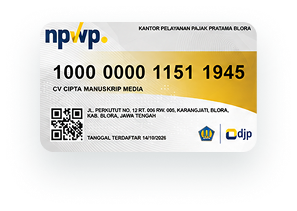
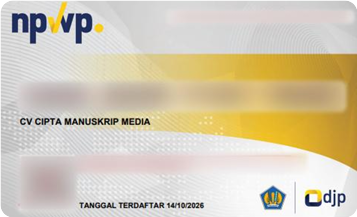
feat(konten): revisi publish-buku & tentang-kami sesuai masukan klien (#8)
- Hapus fasilitas "Pengurusan ISBN" dari ketiga paket buku
- Ganti foto hero /publish-buku dengan foto baru dari klien
- Kartu pilar 02 "ISBN Resmi" diganti "Tim Penerbitan Profesional"
  (visual tim editor/proofreader/desainer, menggantikan logo Perpusnas
  & barcode ISBN)
- Heading pilar direvisi: "Mengapa Memilih CV Cipta Manuskrip Media?"
- Ganti kartu NPWP di /tentang-kami (terdaftar 14/10/2026), kini dengan
  sudut membulat konsisten dengan foto Kemenkumham

diff --git a/content/site.ts b/content/site.ts
@@ -122,7 +122,6 @@ export const PAKET_BUKU: ReadonlyArray<{
       "Penyuntingan naskah",
       "Layout isi buku",
       "Desain cover buku",
-      "Pengurusan ISBN",
       "Royalti penulis 30%",
     ],
   },
@@ -134,7 +133,6 @@ export const PAKET_BUKU: ReadonlyArray<{
       "Penyuntingan naskah",
       "Layout isi buku",
       "Desain cover buku",
-      "Pengurusan ISBN",
       "Royalti penulis 30%",
     ],
   },
@@ -145,7 +143,6 @@ export const PAKET_BUKU: ReadonlyArray<{
       "Penyuntingan naskah",
       "Layout isi buku",
       "Desain cover buku",
-      "Pengurusan ISBN",
       "Royalti penulis 30%",
     ],
   },
@@ -278,15 +275,16 @@ export const SPESIFIKASI_BUKU = {
 } as const;
 
 /** Jenis visual pendukung pada kartu pilar kepercayaan. */
-export type JenisVisualPilar = "legalitas" | "isbn" | "naskah" | "distribusi";
+export type JenisVisualPilar = "legalitas" | "tim" | "naskah" | "distribusi";
 
 /**
  * Empat pilar kepercayaan pada /publish-buku, setelah section asistensi.
  * Teks judul & deskripsi mengikuti brief kata per kata.
  *
- * `jenisVisual` menentukan ilustrasi kartu. Dua entri pertama masih
- * PLACEHOLDER: logo resmi Kemenkumham, Perpusnas RI, dan barcode ISBN
- * belum dikirim klien, jadi jangan dibuat-buat.
+ * `jenisVisual` menentukan ilustrasi kartu. Kartu nomor 02 dahulu berjudul
+ * "ISBN Resmi" (logo Perpusnas RI & barcode ISBN); atas permintaan klien
+ * diganti menjadi "Tim Penerbitan Profesional" dengan visual tim editorial,
+ * sejalan dengan dihapusnya fasilitas "Pengurusan ISBN" dari semua paket.
  */
 export const PILAR_KEPERCAYAAN: ReadonlyArray<{
   id: string;
@@ -304,12 +302,12 @@ export const PILAR_KEPERCAYAAN: ReadonlyArray<{
     jenisVisual: "legalitas",
   },
   {
-    id: "isbn",
+    id: "tim",
     nomor: "02",
-    judul: "ISBN Resmi",
+    judul: "Tim Penerbitan Profesional",
     deskripsi:
-      "Setiap buku memiliki nomor ISBN dari Perpustakaan Nasional yang bisa divalidasi di website resmi Perpusnas.",
-    jenisVisual: "isbn",
+      "Didukung oleh tim editor, proofreader, dan desainer tata letak berpengalaman yang memastikan setiap naskah diproses secara profesional sesuai standar penerbitan.",
+    jenisVisual: "tim",
   },
   {
     id: "naskah",

diff --git a/components/TrustPillars.test.tsx b/components/TrustPillars.test.tsx
@@ -9,7 +9,7 @@ describe("TrustPillars (Section 2.2)", () => {
     expect(html).toContain('aria-labelledby="trust-title"');
     expect(html).toContain('id="trust-title"');
     const teks = html.replace(/<[^>]*>/g, "");
-    expect(teks).toContain("Mengapa Memilih Penerbit Cipta Manuskrip Media?");
+    expect(teks).toContain("Mengapa Memilih CV Cipta Manuskrip Media?");
   });
 
   it("menampilkan tepat empat kartu pilar", () => {
@@ -21,7 +21,7 @@ describe("TrustPillars (Section 2.2)", () => {
     const teks = html.replace(/<[^>]*>/g, "");
     for (const judul of [
       "Legalitas Resmi",
-      "ISBN Resmi",
+      "Tim Penerbitan Profesional",
       "Tidak Harus Ada Naskah di Awal",
       "Distribusi Beragam",
     ]) {
@@ -31,7 +31,7 @@ describe("TrustPillars (Section 2.2)", () => {
       "CV Cipta Manuskrip Media telah resmi berbadan hukum dengan kegiatan usaha penerbitan buku dan jurnal ilmiah.",
     );
     expect(teks).toContain(
-      "Setiap buku memiliki nomor ISBN dari Perpustakaan Nasional yang bisa divalidasi di website resmi Perpusnas.",
+      "Didukung oleh tim editor, proofreader, dan desainer tata letak berpengalaman yang memastikan setiap naskah diproses secara profesional sesuai standar penerbitan.",
     );
     expect(teks).toContain(
       "Belum ada naskah buku? Tak masalah. Tim kami siap bantu asistensi penulisan buku kamu. Fiksi ataupun Nonfiksi.",
@@ -43,11 +43,11 @@ describe("TrustPillars (Section 2.2)", () => {
 
   it("memakai keempat logo dan ilustrasi visual pilar sesuai Figma", () => {
     expect(html).toContain("/aset/trust-legalitas.png");
-    expect(html).toContain("/aset/trust-perpusnas.png");
+    expect(html).toContain("/aset/trust-tim.png");
     expect(html).toContain("/aset/trust-naskah.png");
     expect(html).toContain("/aset/trust-distribusi.png");
-    expect(html).toContain("Logo Perpusnas RI");
-    expect(html).toContain("Barcode ISBN");
+    expect(html).toContain("Tim editor, proofreader");
+    expect(html).toContain("desainer");
     expect(html).not.toContain("home-catalog");
   });
 });

diff --git a/components/TrustPillars.tsx b/components/TrustPillars.tsx
@@ -2,7 +2,7 @@ import { BadgeCheck } from "lucide-react";
 import { PILAR_KEPERCAYAAN, type JenisVisualPilar } from "@/content/site";
 
 /**
- * "Mengapa Memilih Penerbit Cipta Manuskrip Media?"
+ * "Mengapa Memilih CV Cipta Manuskrip Media?"
  * Komponen empat pilar kepercayaan di /publish-buku, tepat setelah asistensi.
  */
 function VisualPilar({ jenis }: { jenis: JenisVisualPilar }) {
@@ -25,21 +25,19 @@ function VisualPilar({ jenis }: { jenis: JenisVisualPilar }) {
     );
   }
 
-  if (jenis === "isbn") {
+  if (jenis === "tim") {
     return (
-      <div className="trust-visual trust-visual--isbn">
-        <span className="trust-logo-bulat" aria-hidden="true">
-          <img
-            src="/aset/trust-perpusnas.png"
-            alt=""
-            width={78}
-            height={73}
-            className="trust-logo-img"
-          />
-        </span>
-        <span className="trust-barcode" aria-hidden="true" />
+      <div className="trust-visual trust-visual--tim">
+        <img
+          src="/aset/trust-tim.png"
+          alt=""
+          aria-hidden="true"
+          width={140}
+          height={96}
+          className="trust-ilustrasi-img"
+        />
         <span className="trust-visual-caption">
-          Logo Perpusnas RI &amp; Barcode ISBN
+          Tim editor, proofreader &amp; desainer
         </span>
       </div>
     );
@@ -90,7 +88,7 @@ export function TrustPillars() {
         <div>
           <p className="section-kicker">Mengapa memilih kami</p>
           <h2 id="trust-title" className="section-title">
-            Mengapa Memilih Penerbit <em>Cipta Manuskrip Media?</em>
+            Mengapa Memilih <em>CV Cipta Manuskrip Media?</em>
           </h2>
         </div>
         <p className="section-intro">

diff --git a/app/home-sections.css b/app/home-sections.css
@@ -266,7 +266,7 @@
   color: #09677d;
 }
 
-/* --- Area visual: dua pertama placeholder logo resmi, dua lainnya ikon --- */
+/* --- Area visual kartu pilar: logo/legalitas, tim editorial, dan ikon --- */
 
 .trust-visual {
   position: relative;
@@ -285,8 +285,8 @@
   background: radial-gradient(ellipse at 50% 40%, rgba(9, 103, 125, 0.1), transparent 70%);
 }
 
-.trust-visual--isbn {
-  background: radial-gradient(ellipse at 50% 40%, rgba(212, 163, 70, 0.13), transparent 70%);
+.trust-visual--tim {
+  background: radial-gradient(ellipse at 50% 40%, rgba(14, 124, 189, 0.12), transparent 70%);
 }
 
 .trust-visual--naskah {
@@ -332,20 +332,6 @@
   background: rgba(255, 255, 255, 0.9);
   box-shadow: 0 6px 16px rgba(16, 42, 49, 0.06);
   color: #09677d;
-}
-
-.trust-barcode {
-  width: 94px;
-  height: 42px;
-  border: 1px solid rgba(16, 42, 49, 0.12);
-  border-radius: 4px;
-  background-color: #fff;
-  background-image: repeating-linear-gradient(
-    90deg,
-    #102a31 0 2px, transparent 2px 4px,
-    #102a31 4px 5px, transparent 5px 9px
-  );
-  opacity: 0.55;
 }
 
 .trust-penghubung {

diff --git a/content/site.test.ts b/content/site.test.ts
@@ -47,15 +47,18 @@ describe("content/site", () => {
   it("empat pilar kepercayaan Section 2.2 memakai teks persis brief", () => {
     expect(PILAR_KEPERCAYAAN.map((p) => p.judul)).toEqual([
       "Legalitas Resmi",
-      "ISBN Resmi",
+      "Tim Penerbitan Profesional",
       "Tidak Harus Ada Naskah di Awal",
       "Distribusi Beragam",
     ]);
     expect(PILAR_KEPERCAYAAN.map((p) => p.jenisVisual)).toEqual([
-      "legalitas", "isbn", "naskah", "distribusi",
+      "legalitas", "tim", "naskah", "distribusi",
     ]);
     expect(PILAR_KEPERCAYAAN[0].deskripsi).toBe(
       "CV Cipta Manuskrip Media telah resmi berbadan hukum dengan kegiatan usaha penerbitan buku dan jurnal ilmiah.",
+    );
+    expect(PILAR_KEPERCAYAAN[1].deskripsi).toBe(
+      "Didukung oleh tim editor, proofreader, dan desainer tata letak berpengalaman yang memastikan setiap naskah diproses secara profesional sesuai standar penerbitan.",
     );
     expect(PILAR_KEPERCAYAAN[3].deskripsi).toBe(
       "Buku kamu tak hanya dijual secara cetak, tapi bisa disewa secara online juga.",

diff --git a/app/(publik)/publish-buku/page.tsx b/app/(publik)/publish-buku/page.tsx
@@ -62,9 +62,9 @@ export default async function Page() {
           <img
             className="publish-hero-foto"
             src="/aset/buku-hero.jpg"
-            width={687}
-            height={492}
-            alt="Penulis muda Indonesia tersenyum menunjukkan ponsel bertanda PUBLISHED, disertai ilustrasi lambang Perpustakaan Nasional dan barcode ISBN."
+            width={1184}
+            height={880}
+            alt="Penulis muda Indonesia tersenyum menunjukkan ponsel bertanda PUBLISHED."
           />
         </div>
       </section>

diff --git a/app/(publik)/publish-buku/visual.test.tsx b/app/(publik)/publish-buku/visual.test.tsx
@@ -47,8 +47,8 @@ describe("visual §3 publish-buku", () => {
     expect(posisiKatalog).toBeGreaterThan(posisiPilar);
     expect((html.match(/class="trust-card"/g) ?? [])).toHaveLength(4);
     expect(html).toContain('id="trust-title"');
-    expect(html).toContain("Mengapa Memilih Penerbit ");
-    expect(html).toContain("Cipta Manuskrip Media?");
+    expect(html).toContain("Mengapa Memilih ");
+    expect(html).toContain("CV Cipta Manuskrip Media?");
   });
 
   it("foto diberi alt yang menjelaskan isinya (bukan alt kosong)", async () => {

diff --git a/app/(publik)/tentang-kami/page.test.tsx b/app/(publik)/tentang-kami/page.test.tsx
@@ -108,7 +108,7 @@ describe("tentang-kami", () => {
     expect(html).toContain('width="443"');
     expect(html).toContain('height="552"');
     expect(html).toContain('width="520"');
-    expect(html).toContain('height="312"');
+    expect(html).toContain('height="316"');
     expect(html).toContain("Surat keterangan terdaftar pendirian CV Cipta Manuskrip Media");
     expect(html).toContain("Kartu NPWP badan usaha CV Cipta Manuskrip Media.");
     expect(html).not.toContain("PLACEHOLDER");

diff --git a/app/(publik)/page.test.tsx b/app/(publik)/page.test.tsx
@@ -174,7 +174,7 @@ describe("beranda", () => {
     expect(teks).not.toContain("Empat langkah");
     expect(teks).not.toContain("dua jalan berkarya");
     expect(teks).not.toContain("Bukan janji besar");
-    expect(teks).not.toContain("Mengapa Memilih Penerbit");
+    expect(teks).not.toContain("Mengapa Memilih CV Cipta Manuskrip Media");
     expect(html).not.toContain("home-flow");
     expect(html).not.toContain("home-ground");
     expect(html).not.toContain("services-section");

diff --git a/components/AboutLegalitas.tsx b/components/AboutLegalitas.tsx
@@ -56,7 +56,7 @@ export function AboutLegalitas() {
               className="about-legal-card"
               src="/aset/legalitas-npwp.png"
               width={520}
-              height={312}
+              height={316}
               alt="Kartu NPWP badan usaha CV Cipta Manuskrip Media."
               loading="lazy"
               decoding="async"
